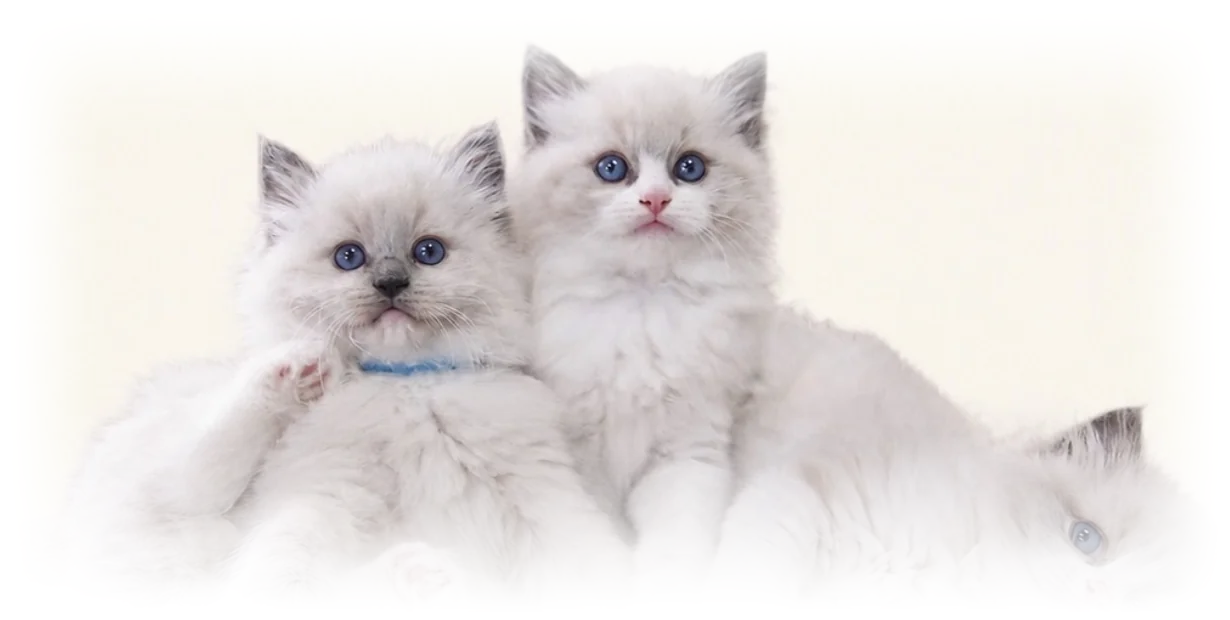
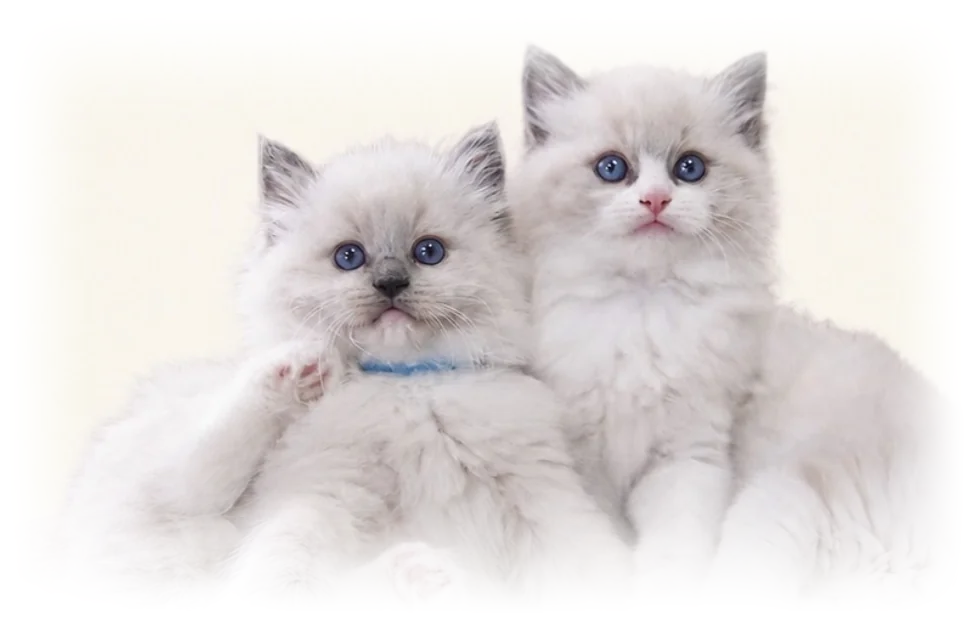
Tighten kitten photo crop and push heading below their faces
The crop included a third kitten peeking in at the bottom-right edge,
partly caught by the alpha feather so it read as a stray hard edge
rather than fading naturally. Recrop to just the two kittens so every
side fades cleanly into the section's tint. Also push the heading and
paragraph further down so the kittens' faces stand out clearly above
the text instead of the heading sitting right over them.

Claude-Session: https://claude.ai/code/session_01XtEfWMbx1uSpXVwGytVkAw

diff --git a/nase-prace.html b/nase-prace.html
@@ -126,7 +126,7 @@
         </section>
 
         <section class="section bg-soft reasons-section">
-            <picture class="reasons-photo-bg"><source srcset="images/misc/kotata-trio-bg.webp" type="image/webp"><img src="images/misc/kotata-trio-bg.png" width="1230" height="620" alt="" aria-hidden="true"></picture>
+            <picture class="reasons-photo-bg"><source srcset="images/misc/kotata-trio-bg.webp" type="image/webp"><img src="images/misc/kotata-trio-bg.png" width="970" height="620" alt="" aria-hidden="true"></picture>
             <div class="container">
                 <div class="section-header reveal">
                     <h2>Proč na tom záleží</h2>

diff --git a/concept.css b/concept.css
@@ -685,12 +685,16 @@ body.concept .reasons-photo-bg img {
 }
 body.concept .reasons-section .section-header,
 body.concept .reasons-section .grid { position: relative; z-index: 1; }
+/* Give the kittens room to be seen before the heading starts, instead of
+   the text sitting right over their faces. */
+body.concept .reasons-section .section-header { margin-top: 130px; }
 @media (max-width: 720px) {
     body.concept .reasons-photo-bg {
         width: 108vw;
         top: -40px;
         opacity: 0.55;
     }
+    body.concept .reasons-section .section-header { margin-top: 70px; }
 }
 
 body.concept .accordion-item {
